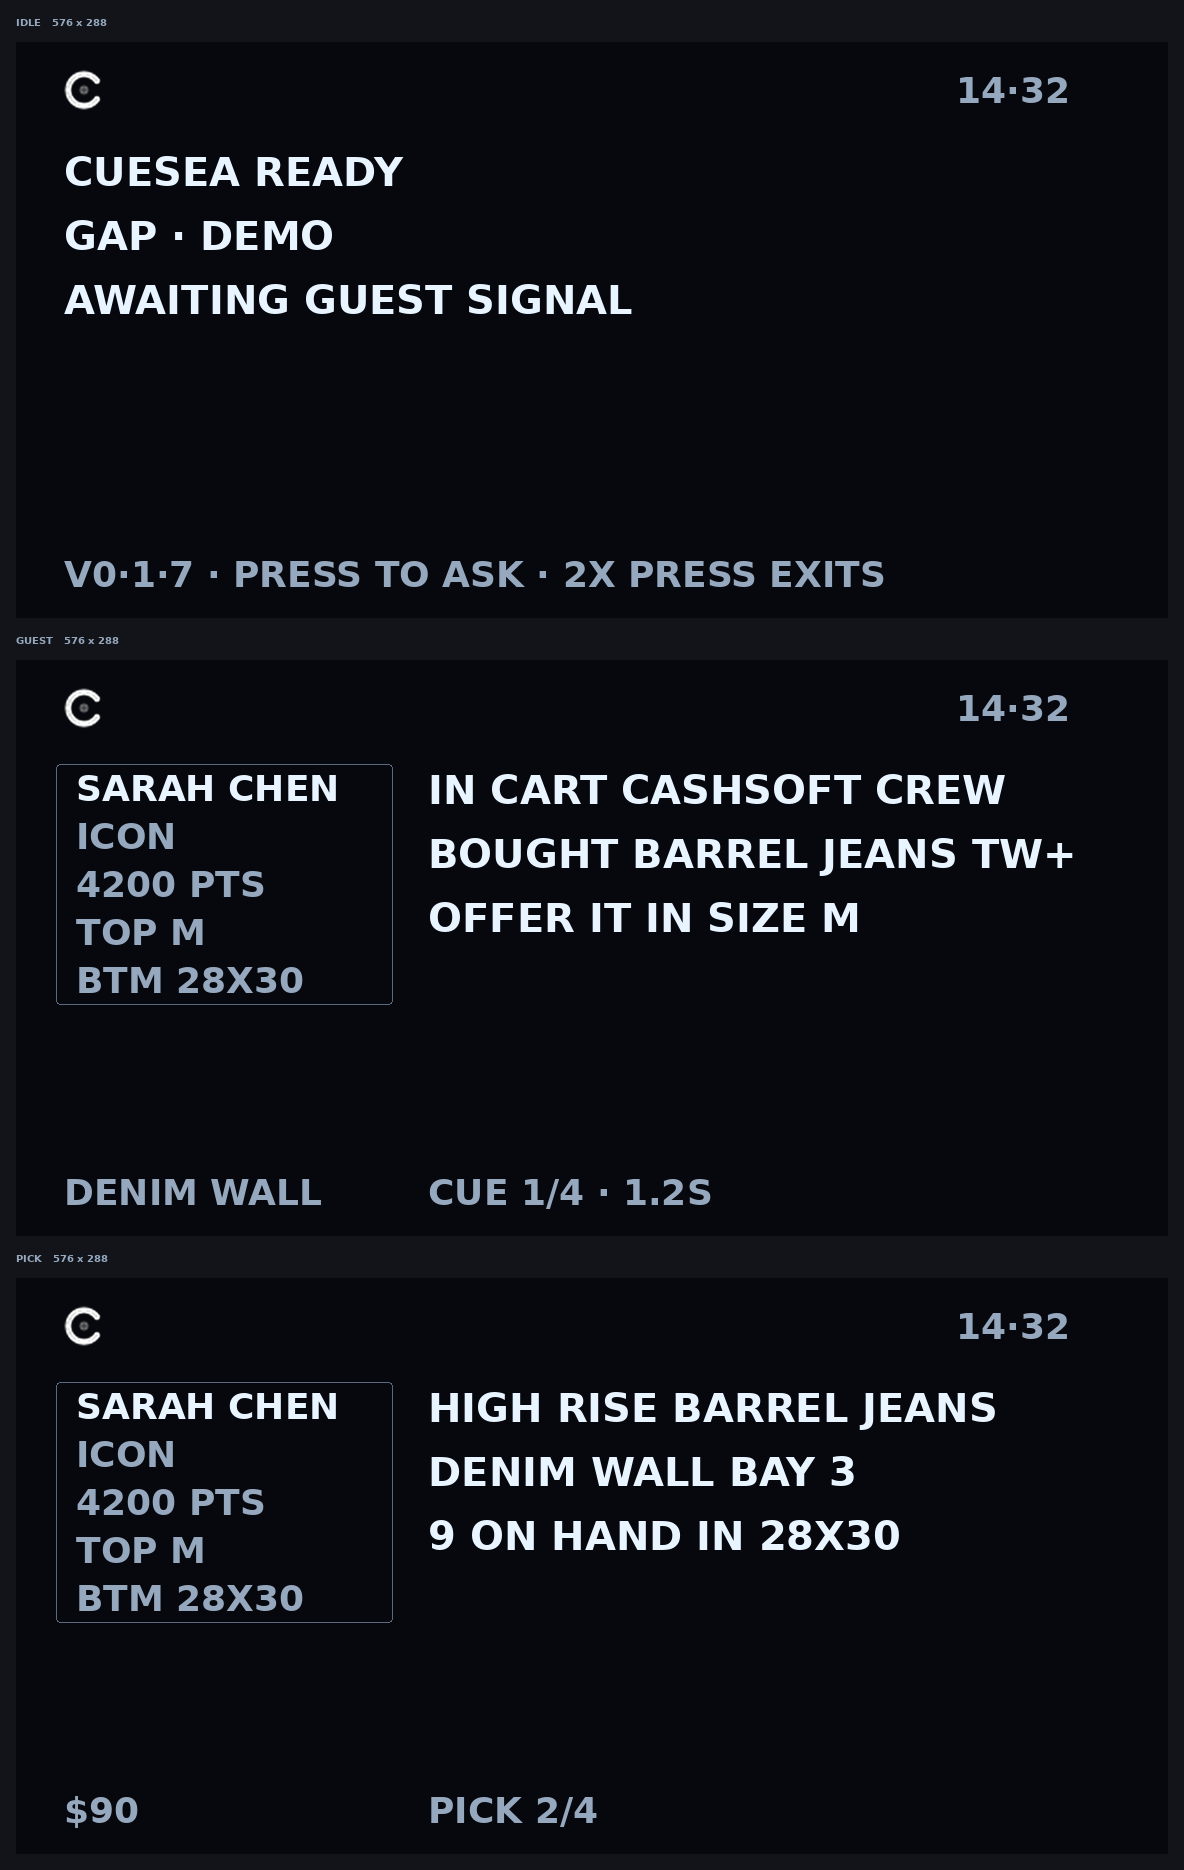
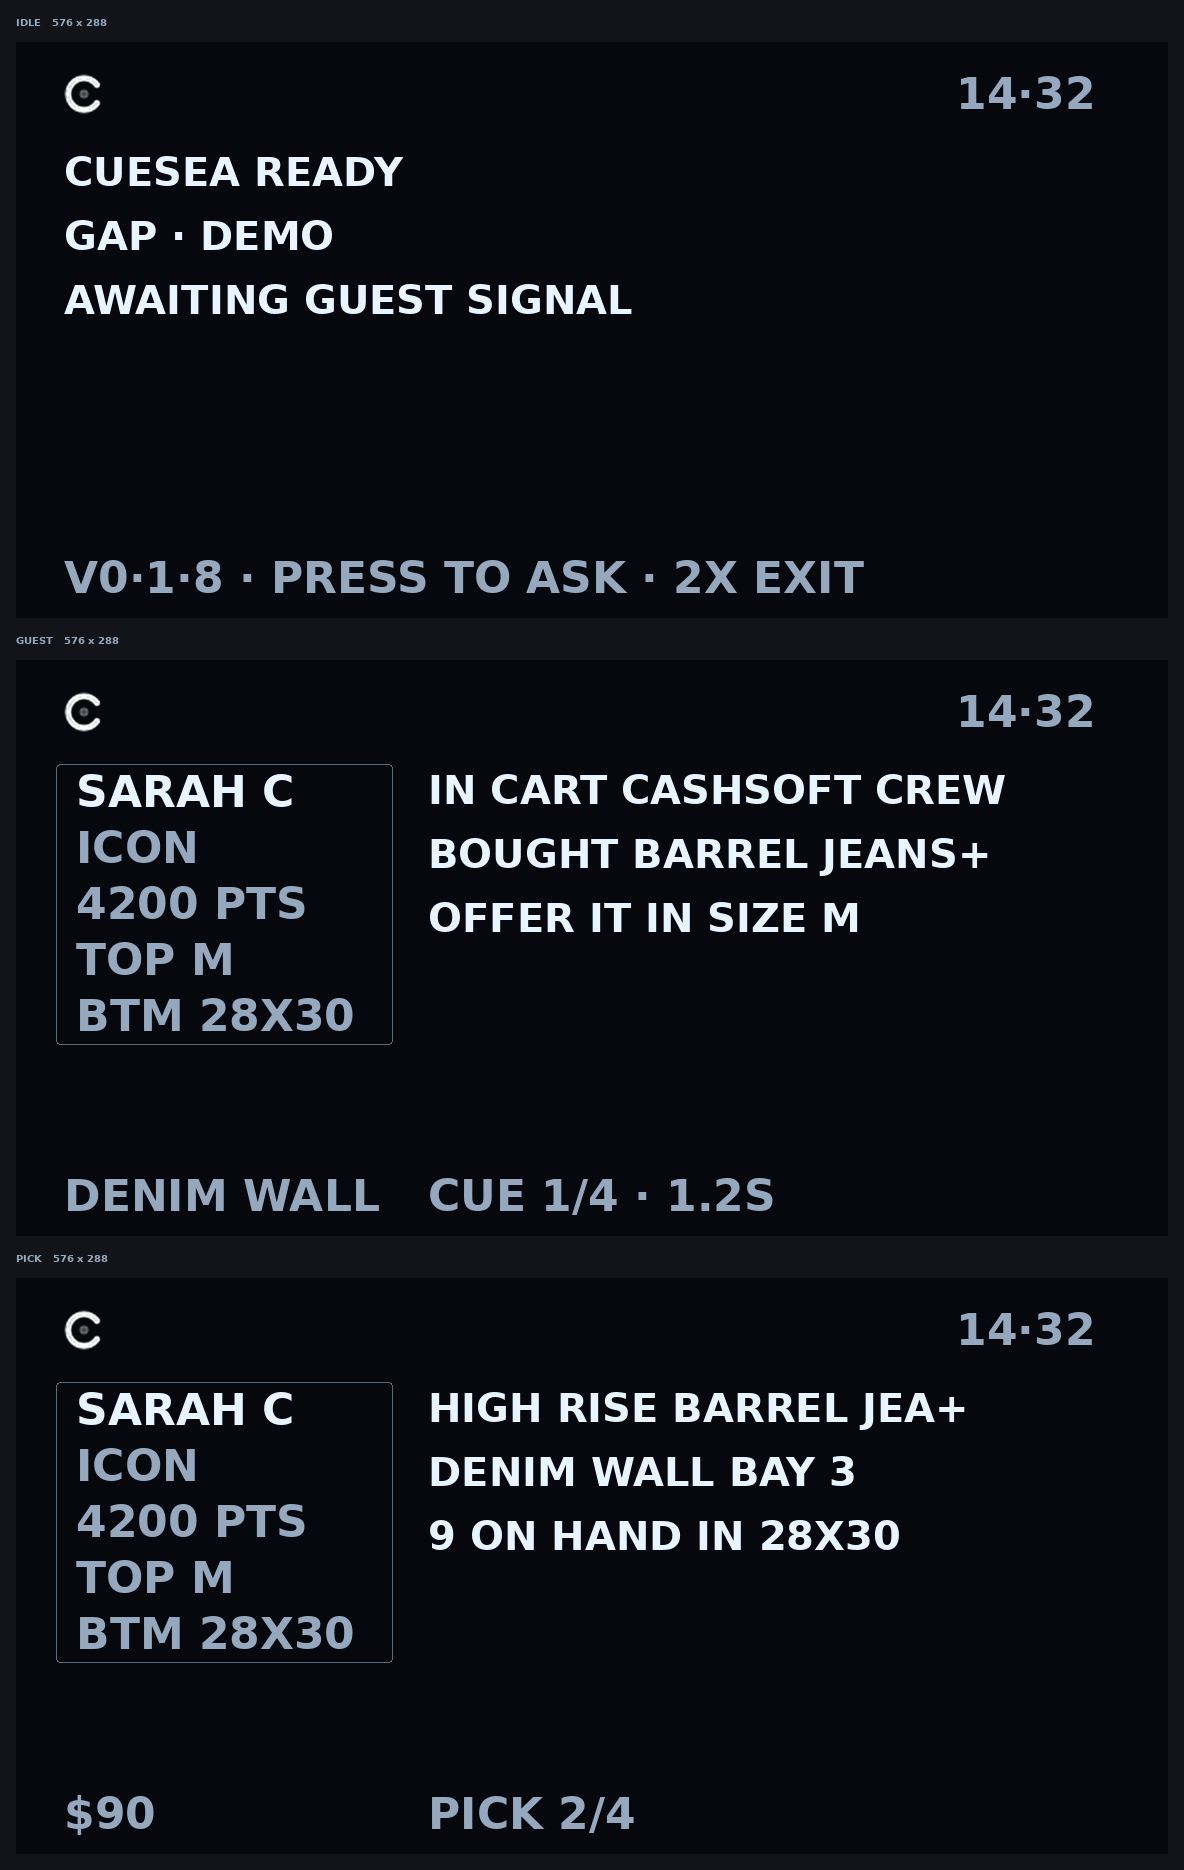
Every .ehpk I packed was dialling localhost
Kyle, on 0.1.7: "no guests in the new demo version… without guest the press to
ask does not trigger the AI."

Both symptoms, one cause, and it is not the HUD. `SERVER_URL` fell back to
`http://localhost:4000` when `VITE_SERVER_URL` was unset, and `.env` is
gitignored — so every package built in a sandbox told the glasses to open a
socket to the phone itself. The Vercel-hosted lens worked, because Vercel has
the variable. The `.ehpk` never did.

It is the worst kind of failure this project keeps producing: invisible from
outside the device. The package installs. The HUD renders. The version reads
correctly off the glass. Every layout change is visibly there. There is simply
no socket, so no guest ever arrives and a press to ask reaches nothing — which
reads as "the demo has no guests" and "voice is broken", not "the URL is wrong".
Three uploads went out that way.

The URL now comes from app.json's own network whitelist, injected at build
time. That makes two things true by construction rather than by discipline: it
exists without any environment, and it is the same host the WebView will
permit — dialling one outside the whitelist is the identical silent failure a
layer down. `VITE_SERVER_URL` still overrides for local work.

And `npm run pack` now refuses to package a bundle that dials localhost, dials
anything off the whitelist, or contains something shaped like an API key. The
guard asserts against the built artifact, not against intent, because intent
[…]

diff --git a/packages/glasses-plugin/src/layout.ts b/packages/glasses-plugin/src/layout.ts
@@ -55,12 +55,14 @@ export const FACT_SLOTS = 6;
  * off" was.
  *
  * So the budgets are derived instead, from the one ratio that governs them.
- * 0.55 is measured off the preview render, not off the G2: the host's own
- * font is very likely narrower, in which case this is conservative and costs
- * a few characters. Calibrating it on glass is a one-line change here, and
- * every budget in the file moves with it.
+ * 0.60 is the widest advance the preview render measures — 0.57 at 24px and
+ * 0.60 at 28px, so it is taken at the worst case rather than the average,
+ * because being one character optimistic here means a clipped word on a
+ * customer's face. It is measured off the preview font, not off the G2, and
+ * the G2's is very likely narrower. Calibrating it on glass is a one-line
+ * change here and every budget in the file moves with it.
  */
-const CHAR_ASPECT = 0.55;
+const CHAR_ASPECT = 0.60;
 
 /** How many characters fit a box, given the host scales glyphs to its height. */
 export function fitChars(width: number, height: number): number {
@@ -97,19 +99,31 @@ const MODULE_W = DISPLAY_W - MODULE_X - X;
  * control, and everything below is one block because tuning it is going to
  * take a pass or two on real glass.
  *
- * Was 38/44 and unreadably large on a G2. Then two complaints off the glass
- * turned out to be one fault: the header read as "too large for its
- * container" at 16 and the meta strip read as "cut off" at 18 — opposite
- * descriptions of the same thing, which is that the host has a floor under
- * how small it will draw a glyph. Below roughly 20px the text no longer fits
- * the box it was given and the box wins. So both went up, and they went up to
- * the same number: 24 is the smallest row this display renders whole.
+ * Was 38/44 and unreadably large. Then 16 and 18, which Kyle read as "too
+ * large for its container" and "cut off" — opposite descriptions of one
+ * thing: **the host has a floor under how small it will draw a glyph, and a
+ * box below that floor does not shrink the text, it clips it.** Then 24, and
+ * the clock still lost its bottom edge, so the floor is above 24. The three
+ * sentence lines at 26 have never been reported clipped, so it is at or just
+ * under 26.
+ *
+ * `ROW_H` is 28 — the first value clear of every observation. It is still an
+ * inference from three data points and a guess at the fourth, which is two
+ * more guesses than this has earned. **`buildRuler()` below settles it**: one
+ * screen showing the same word at five heights, reachable by scrolling up at
+ * idle. Whatever Kyle reads off it is the number, and it goes here.
+ *
+ * Worth saying plainly because it constrains the design: if the host has a
+ * floor, the supporting rows *cannot* be made smaller than the sentence. The
+ * type hierarchy the brand asks for is not available on this hardware. What
+ * is available is choosing what earns a row at all.
  */
-const HEADER_H = 24;
+const ROW_H = 28;
+const HEADER_H = ROW_H;
 const LINE_H = 26;        // ← the sentence's type size
 const LINE_STEP = 32;     // baseline-to-baseline
-const RAIL_ROW = 24;      // ← the rail's type size, and the floor
-const META_H = 24;        // ← the floor, again
+const RAIL_ROW = ROW_H;   // ← the rail's type size
+const META_H = ROW_H;     // ← and the supporting rows
 const PAD = 4;            // breathing room inside every box
 
 const HEADER_Y = 12;
@@ -319,7 +333,11 @@ export function buildCue(cue: Cue, latencyMs?: number): PageSpec {
   // Idle is that case, and idle is the one screen whose meta strip is load
   // bearing: it carries the two gestures, one of which quits the app. Held to
   // a rail's width it fitted the build number and dropped both of them.
-  const metaW = hasRail ? RAIL_W : showModules ? MODULE_X - X - GUTTER : W;
+  // The footer's left cell runs to where the module column starts, not to
+  // where the rail's border does — the gutter above it is dead space, and at
+  // this type size the strip is nine characters against ten. "DENIM WALL" is
+  // exactly the fact that falls off the end of it.
+  const metaW = hasRail || showModules ? MODULE_X - X : W;
   const footRight = latencyMs ? `${(latencyMs / 1000).toFixed(1)}S` : "";
   if (showModules) {
     // "2/3", not dots. The glass charset is [A-Z0-9 ·%$£€/+-] — a filled dot
@@ -393,6 +411,53 @@ export function buildCue(cue: Cue, latencyMs?: number): PageSpec {
 }
 
 /**
+ * The ruler — the same word at five container heights, labelled.
+ *
+ * Three builds have now gone out with the type size set by inference from a
+ * sentence of feedback, and two of them were wrong. The variable is a single
+ * number and the hardware is the only instrument that can read it, so this
+ * puts all five candidates on the glass at once and asks one question:
+ * **which of these rows is whole, and which is clipped?**
+ *
+ * The label is inside the row it measures, deliberately — a legend in a
+ * different box would be rendered at a different size and would be the thing
+ * under test. Each row says its own height in its own type.
+ *
+ * Reachable by scrolling up at idle, which is otherwise a no-op. It is not
+ * hidden and does not need to be: an associate who finds it sees a screen of
+ * numbers and presses to leave.
+ */
+export const RULER_HEIGHTS = [20, 24, 26, 28, 32];
+
+export function buildRuler(): PageSpec {
+  let y = 16;
+  const textObject: TextContainer[] = RULER_HEIGHTS.map((h, i) => {
+    const row = {
+      xPosition: X, yPosition: y, width: W, height: h,
+      paddingLength: PAD,
+      containerID: 1 + i, containerName: `ruler-${h}`, zOrderIndex: 1 + i,
+      // Digits, caps and a descender-free word: if the bottom edge is missing
+      // it is the box clipping, not the glyph having nothing down there.
+      content: `${h} SIZE 28X30 WHOLE`,
+      // One receiver, so a tap leaves the way every other page leaves.
+      isEventCapture: (i === 0 ? 1 : 0) as 0 | 1,
+    };
+    y += h + 8;
+    return row;
+  });
+
+  textObject.push({
+    xPosition: X, yPosition: DISPLAY_H - 30, width: W, height: 26,
+    paddingLength: PAD,
+    containerID: 8, containerName: "ruler-exit", zOrderIndex: 8,
+    content: "PRESS TO GO BACK",
+    isEventCapture: 0,
+  });
+
+  return assertBudget({ containerTotalNum: textObject.length, textObject });
+}
+
+/**
  * Refuse to hand the host a page it will silently drop.
  *
  * The budgets are the host's, not ours: 8 text containers, 12 in total. Going
@@ -422,5 +487,5 @@ export const IDLE_CUE: Cue = {
   // The only screen that spends space on controls. Everywhere else the
   // gestures follow from what's on the glass; here they don't, and one of
   // them exits the app.
-  meta: ["PRESS TO ASK", "2X PRESS EXITS"],
+  meta: ["PRESS TO ASK", "2X EXIT"],
 };

diff --git a/packages/glasses-plugin/src/main.ts b/packages/glasses-plugin/src/main.ts
@@ -21,15 +21,24 @@
 import { io, type Socket } from "socket.io-client";
 import { getBridge, type GlassesBridge } from "./bridge";
 import { decodeGesture, describeGesture, type DecodedGesture } from "./gestures";
-import { buildCue, CUE_LINES, IDLE_CUE, toDisplayText, type Cue } from "./layout";
+import { buildCue, buildRuler, CUE_LINES, IDLE_CUE, RULER_HEIGHTS, toDisplayText, type Cue } from "./layout";
 import { markBytes } from "./mark";
 import { VoiceController, type VoiceResult, type VoiceState } from "./voice";
 
-/** Everything goes through the realtime server. The plugin is a static
- *  bundle, so it cannot hold the AI service key — the server holds it and
- *  proxies. There is deliberately no VITE_AI_URL any more: a build flag that
- *  points the plugin straight at the AI service would quietly undo that. */
-const SERVER_URL = import.meta.env.VITE_SERVER_URL || "http://localhost:4000";
+/**
+ * Everything goes through the realtime server. The plugin is a static bundle,
+ * so it cannot hold the AI service key — the server holds it and proxies.
+ * There is deliberately no VITE_AI_URL any more: a build flag that points the
+ * plugin straight at the AI service would quietly undo that.
+ *
+ * Defaulted from the manifest's own network whitelist (see vite.config.ts), not
+ * from an environment variable. `VITE_SERVER_URL` still overrides for local
+ * work against a server on this machine — but a missing `.env` now costs you
+ * nothing, where it used to cost an upload: the packed plugin dialled
+ * localhost from a phone, installed clean, rendered the HUD correctly, and
+ * silently had no socket at all.
+ */
+const SERVER_URL = import.meta.env.VITE_SERVER_URL || __REALTIME_URL__;
 
 /** Tenant = which retail world this launch belongs to ("gap" demo | "shopify"
  *  live). Carried by the launch URL, i.e. the QR code that opened us. */
@@ -90,6 +99,9 @@ let pageBuilt = false;
  * empty every time, so `pushMark` runs after every build, not just the first.
  */
 let useMark = true;
+/** On the type ruler — a diagnostic page that is not a cue and must not be
+ *  treated as one. See showRuler(). */
+let onRuler = false;
 let engaged = false;
 
 /** What the associate is currently looking at — the context a voice question
@@ -242,6 +254,23 @@ function moduleLabel() { return recIndex < 0 ? "CUE" : "PICK"; }
  * six questions, and three of them were about a size or a colour. So sizes
  * lead, and tier and points follow because they change how you open.
  */
+/**
+ * "SARAH CHEN" -> "SARAH C".
+ *
+ * The rail is 168px wide and holds about nine characters at this type size.
+ * A full name does not fit, and the version that clips — "SARAH CHE" — is
+ * worse than useless: it reads as a broken display rather than a shortened
+ * name. The surname is the half you can drop, because the associate is about
+ * to say the first name out loud and the full name is on the guest card when
+ * they arrive.
+ */
+function railName(name?: string): string {
+  const parts = String(name || "").trim().split(/\s+/).filter(Boolean);
+  if (parts.length === 0) return "";
+  if (parts.length === 1) return parts[0];
+  return `${parts[0]} ${parts[parts.length - 1][0]}`;
+}
+
 function railFor(payload: DisplayPayload): string[] {
   const g = payload.guest as any;
   if (!g) return [];
@@ -255,7 +284,7 @@ function railFor(payload: DisplayPayload): string[] {
   // losing the inseam, which is the half of that fact worth having. Abbreviate
   // the label and the value survives.
   return [
-    g.name || "",
+    railName(g.name),
     g.tier || "",
     typeof g.points === "number" ? `${g.points} PTS` : "",
     sizes.tops ? `TOP ${sizes.tops}` : "",
@@ -263,7 +292,25 @@ function railFor(payload: DisplayPayload): string[] {
   ].filter(Boolean);
 }
 
+/**
+ * Put the type ruler on the glass.
+ *
+ * Deliberately bypasses `renderCue` — no rail, no clock, no mark, nothing
+ * that could be mistaken for the row under test. It rebuilds unconditionally
+ * because its shape shares no container ids with any cue page, and the cheap
+ * path cannot create containers.
+ */
+async function showRuler() {
+  onRuler = true;
+  const page = buildRuler();
+  if (!pageBuilt) { await bridge.createStartUpPageContainer(page); pageBuilt = true; }
+  else await bridge.rebuildPageContainer(page);
+  currentShape = "";   // force a rebuild on the way back out
+  log(`ruler: rows at ${RULER_HEIGHTS.join(", ")}px — which are whole?`);
+}
+
 async function showIdle() {
+  onRuler = false;
   engaged = false;
   engagedGuestId = null;
   focusSku = null;
@@ -276,10 +323,12 @@ async function showIdle() {
     // The build, on the glass. An install that silently did not roll over is
     // indistinguishable from a fix that did not work, and we burned two
     // uploads on exactly that ambiguity.
-    // "2X PRESS EXITS", not "DOUBLE PRESS EXITS": the strip holds 39
-    // characters and the long form made it 41, so the exit hint — the one
-    // gesture nobody discovers by accident — was the fact that got dropped.
-    meta: [`V${__APP_VERSION__.replace(/\./g, "·")}`, "PRESS TO ASK", "2X PRESS EXITS"],
+    // Abbreviated to the bone. The strip holds 31 characters at this row
+    // height and the long forms ran to 46, so the exit hint — the one gesture
+    // nobody discovers by accident — was what fell off the end. The version
+    // stays because an install that silently did not roll over has cost more
+    // evenings than any single bug.
+    meta: [`V${__APP_VERSION__.replace(/\./g, "·")}`, "PRESS TO ASK", "2X EXIT"],
   });
   ui.sessionInfo.textContent = "No active session";
 }
@@ -399,6 +448,9 @@ function onGesture(g: DecodedGesture) {
 
   switch (g.action) {
     case "click":
+      // The ruler is a dead end by design: it eats one press to leave, so
+      // nobody can start a voice query from a diagnostic screen by accident.
+      if (onRuler) { onRuler = false; void showIdle(); return; }
       // A click first dismisses whatever voice put on the lens; only then does
       // it mean "I'm done with this guest".
       if (voice.dismiss()) return;
@@ -461,6 +513,11 @@ function onGesture(g: DecodedGesture) {
       return;
 
     case "scroll-up":
+      // Scrolling at idle has never done anything — there is no carousel until
+      // a guest arrives. So it is where the type ruler lives: the one screen
+      // that answers, on the hardware, how small this display will actually
+      // draw a row. See buildRuler() in layout.ts.
+      if (!engaged && voice.current === "idle") { void showRuler(); return; }
       void cycleRecommendations(-1);
       return;
 

diff --git a/packages/glasses-plugin/vite.config.ts b/packages/glasses-plugin/vite.config.ts
@@ -4,7 +4,32 @@ import { defineConfig } from "vite";
 // The version an operator can read off the glass. Three uploads tonight could
 // not be told apart from outside the device, which turned "did the fix work"
 // into a guess every time. Now the idle screen says which build is running.
-const APP_VERSION = JSON.parse(readFileSync("./app.json", "utf8")).version;
+const APP_MANIFEST = JSON.parse(readFileSync("./app.json", "utf8"));
+const APP_VERSION = APP_MANIFEST.version;
+
+/**
+ * The realtime server, taken from the manifest's own network whitelist.
+ *
+ * This used to be `import.meta.env.VITE_SERVER_URL || "http://localhost:4000"`,
+ * and `.env` is gitignored — so every `.ehpk` packed anywhere but on a machine
+ * that happened to have that file shipped a plugin dialling localhost from a
+ * phone. It installs, it renders, the HUD looks right, and nothing works:
+ * no socket, so no guest ever arrives and a press to ask reaches nothing.
+ * Three uploads went out like that.
+ *
+ * Reading it from `app.json` instead makes two things true by construction:
+ * the URL exists without any environment, and it is the *same* URL the host
+ * will permit — a plugin dialling a host outside its own whitelist is blocked
+ * by the WebView, which is the identical silent failure one layer down.
+ */
+const WHITELIST: string[] =
+  APP_MANIFEST.permissions?.find((p: any) => p.name === "network")?.whitelist ?? [];
+if (WHITELIST.length === 0) {
+  throw new Error(
+    "app.json has no network whitelist — the plugin would have nowhere to dial.",
+  );
+}
+const REALTIME_URL = WHITELIST[0];
 
 // Even Hub plugins are plain web apps loaded by the Even App WebView.
 // Build to a single small bundle; no framework needed for the phone page.
@@ -15,7 +40,10 @@ const APP_VERSION = JSON.parse(readFileSync("./app.json", "utf8")).version;
 // there is no native bridge, which on a G2 is never. Set CUE_PACK=1 for the
 // build you are going to package, and the asset stays out.
 export default defineConfig({
-  define: { __APP_VERSION__: JSON.stringify(APP_VERSION) },
+  define: {
+    __APP_VERSION__: JSON.stringify(APP_VERSION),
+    __REALTIME_URL__: JSON.stringify(REALTIME_URL),
+  },
   base: "./",
   publicDir: process.env.CUE_PACK === "1" ? false : "public",
   build: { target: "es2020" },

diff --git a/packages/glasses-plugin/src/vite-env.d.ts b/packages/glasses-plugin/src/vite-env.d.ts
@@ -1,3 +1,6 @@
 /// <reference types="vite/client" />
 
 declare const __APP_VERSION__: string;
+/** The realtime server, injected from app.json's network whitelist so the URL
+ *  the plugin dials and the URL the host permits cannot drift apart. */
+declare const __REALTIME_URL__: string;
